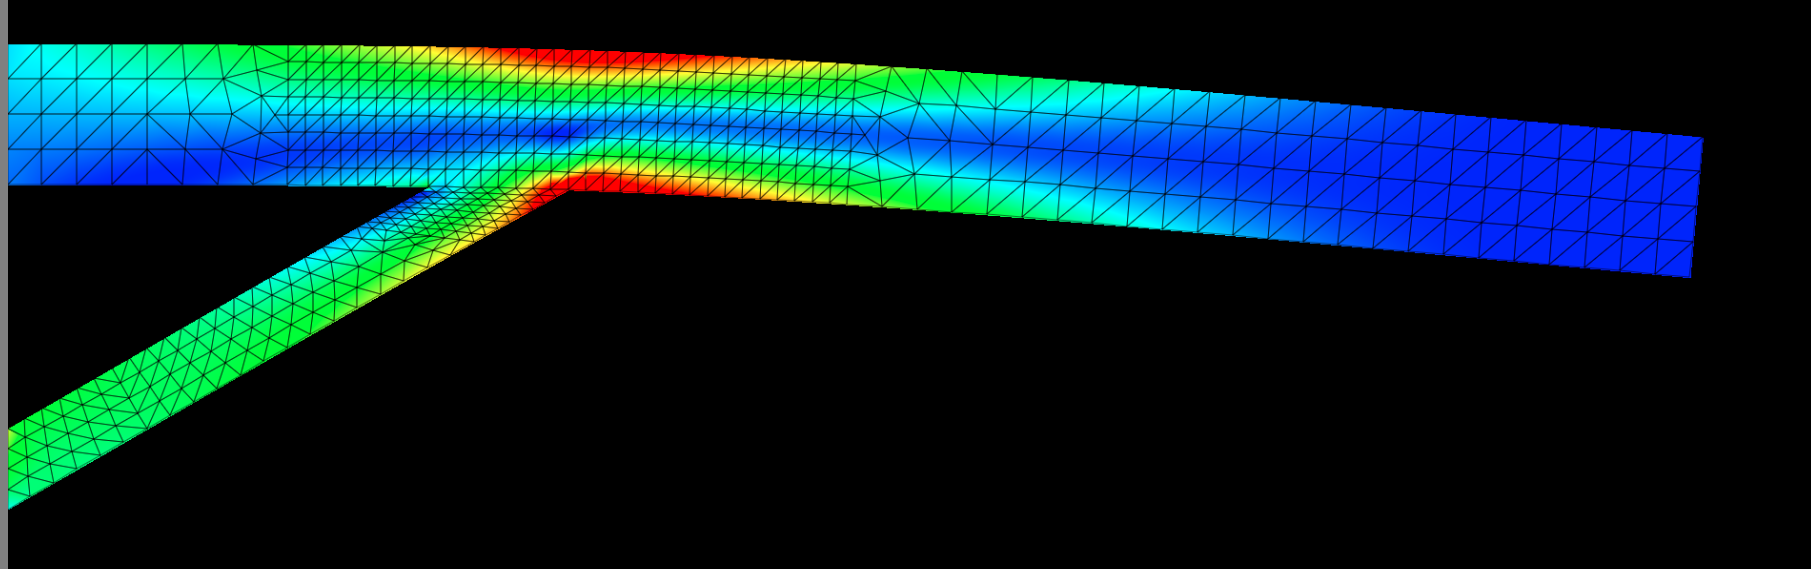
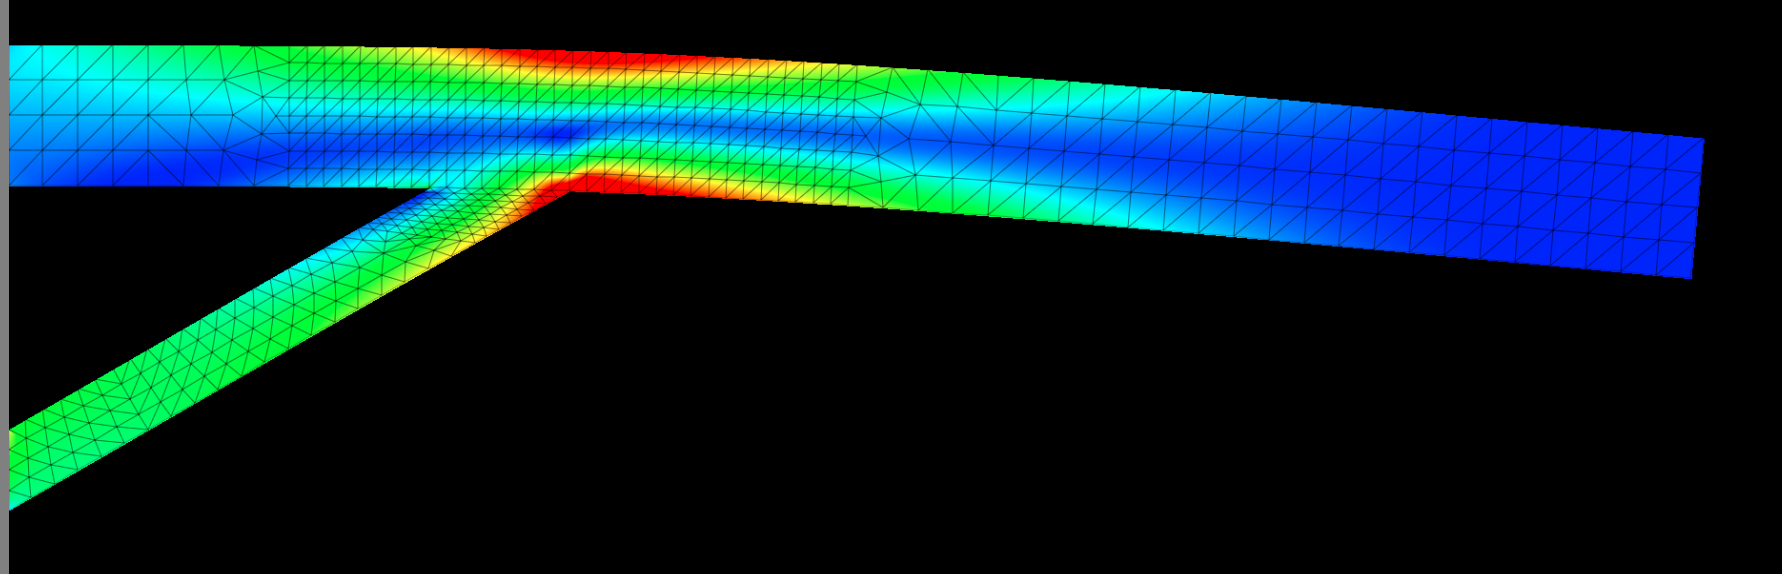
beam image

Changed region(s): [[0.0, 0.0598, 0.9568, 0.8963]]

diff --git a/README.md b/README.md
@@ -1,8 +1,9 @@
 # gpu_finite_element
 A rudimentary proof of concept: GPU accelerated structural stress analysis using
-the finite element method and CUDA.
+the finite element method and CUDA. Also has CPU-only version without CUDA
+dependency.
 
-Also has CPU-only version without CUDA dependency.
+Features 3rd order elements (cubic shape functions).
 
 ![beam.png](beam.png)
 *Image: von Mises stress of 2D beam fixed on left and pulled down by gravity*
